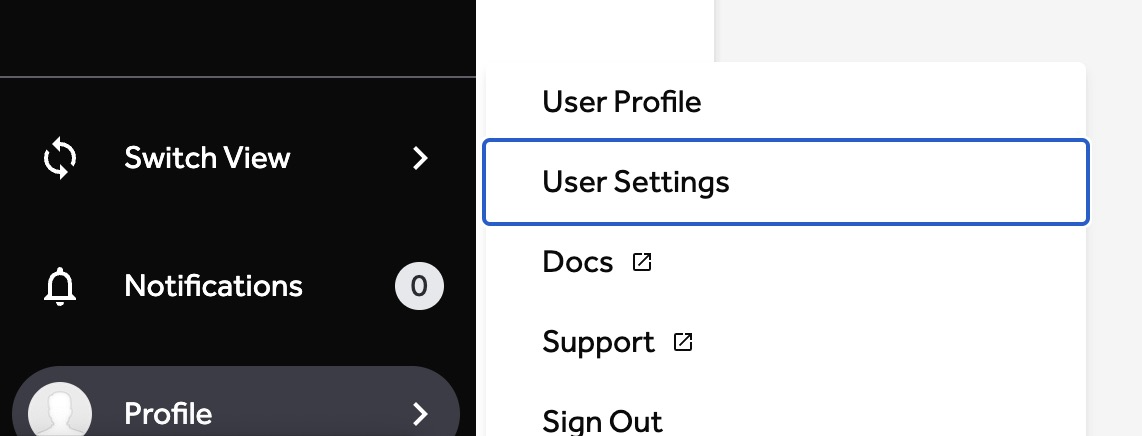
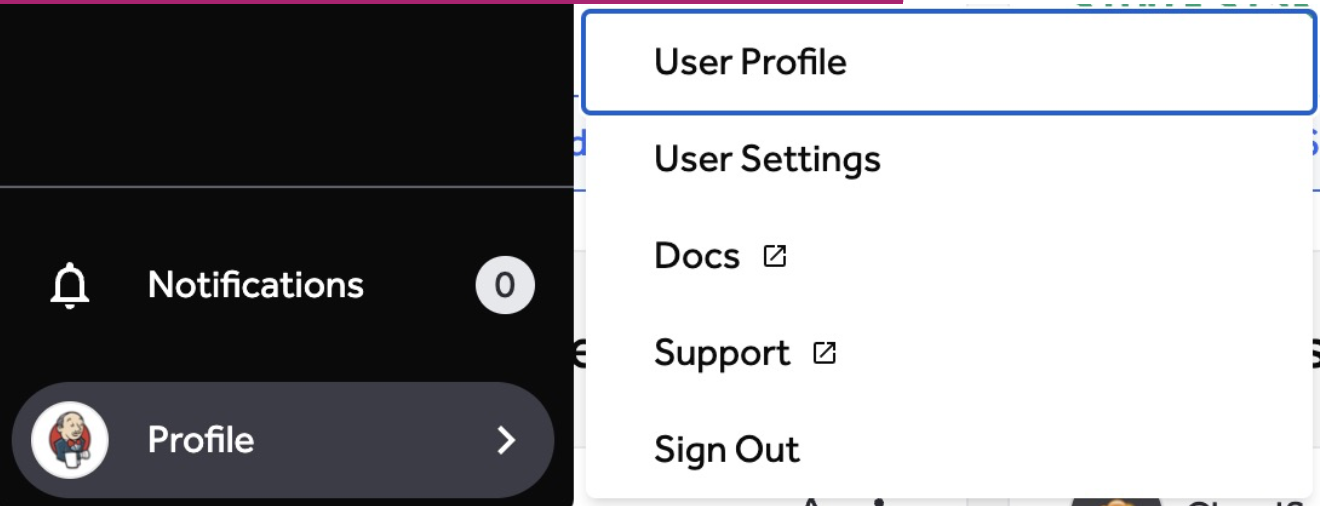
ID Verification update
per request from Caroline

diff --git a/docs/hackers/id-verification.md b/docs/hackers/id-verification.md
@@ -8,17 +8,33 @@ Due to the sensitive nature of their systems, some programs require you to verif
 
 ### How do I become ID verified?
 
-Any hacker that has submitted a valid report is eligible for ID verification. To start the process, simply visit the settings page and click the “Start Verification” button:
+Any hacker that has submitted a valid report is eligible for ID verification. To start the process, visit the User Profile page and click the **ID Verification** header:
 
 ![User settings](/images/id-verification-1.png)
 
 ![Verification button](/images/id-verification-2.png)
 
+You will first need to sign our Rules of Engagement. To start complete this, click the Sign the Rules of Engagement button:
+
+![ID Verification Rules of Engagement](/images/id-verification-4.png)
+
+The Rules of Engagement pop up will be displayed. Review the hyperlinked documents and once ready, tick the box to confirm that you agree to the Rules of Engagement and press the **Save** button:
+
+![Agree to Rules of Engagement](/images/id-verification-5.png)
+
+Now you will be able to start the ID Verification by clicking on the Start Verification button:
+
+![Start verification process](/images/id-verification-6.png)
+
+Check out our tips and then click the Start the Process button:
+
+![Verification tips](/images/id-verification-7.png)
+
 You will be redirected to our partner Berbix to continue the process there. If you are not ready to finish your ID verification yet, Berbix will send an email with a link to continue the process later.
 
 ### What distinguishes H1 Clear from the standard ID Verification process?
 
-H1 Clear is a stricter and more thorough process that requires a more stringent background check, ensuring that only the most skilled and professional hackers receive this status. These hackers are granted additional benefits as a result. The standard ID Verification process is available to any hacker who has submitted a valid report, providing a convenient method for identity confirmation.
+H1 Clear is a stricter and more thorough process that requires a more stringent background check, ensuring that only the most skilled and professional hackers receive this status. The standard ID Verification process is available to any hacker who has submitted a valid report, providing a convenient method for identity confirmation.
 
 ### How do I know that my identity is verified?
 
